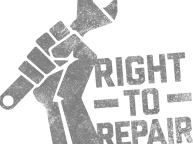
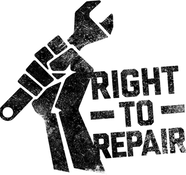
Reenable force show widget and add better right to repair graphics

diff --git a/src/styles/footer.css b/src/styles/footer.css
@@ -22,14 +22,12 @@
    margin: 0 auto;
    max-width: 50rem;
    align-items: center;
-   height: 100%;
 }
 
 .dcs-footer__container:before {
    content: url('images/repair-banner-dirty.png');
-   margin-left: -193px;
-   margin-top: -2px;
-   height: 144px;
+   opacity: .8;
+   margin-left: -150px;
 }
 
 .dcs-footer__logo {
@@ -84,7 +82,12 @@
 @media (max-width: 899px) {
    .dcs-footer__container {
       flex-direction: column;
-      padding: 3.5rem .5rem;
+      padding: 3.5rem .5rem 1rem;
+      box-sizing: border-box;
+   }
+
+   .dcs-footer__action {
+      margin-top: 2rem;
    }
 
    .dcs-footer__container:before {

diff --git a/static/widget.js b/static/widget.js
@@ -15,7 +15,7 @@
   var disableGeoIP = false; //!!options.disableGeoIP;
   var forceFullPageWidget = false; //!!options.forceFullPageWidget;
   var cookieExpirationDays = parseFloat(options.cookieExpirationDays || 1);
-  var alwaysShowWidget = false; //!!options.alwaysShowWidget;
+  var alwaysShowWidget = !!options.alwaysShowWidget;
   var disableGoogleAnalytics = !!options.disableGoogleAnalytics;
   var showCloseButtonOnFullPageWidget = !!options.showCloseButtonOnFullPageWidget;
   var language = 'en';
